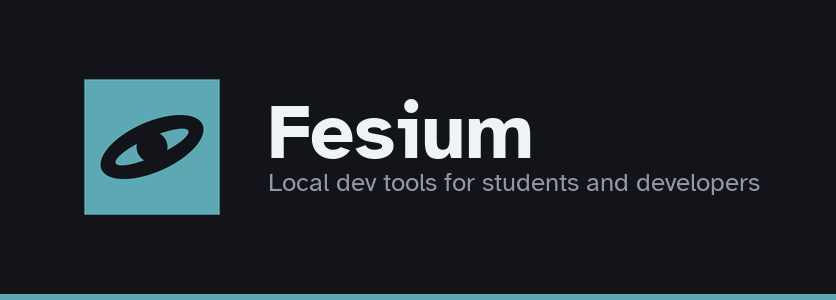
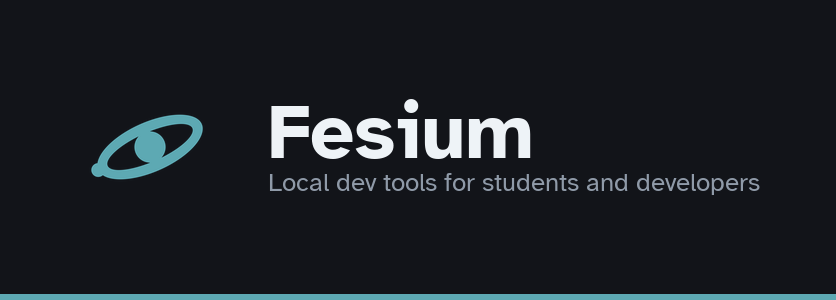
brand: redraw the mark as monochrome line art; light social preview
The mark is now three shapes in one ink - orbit, nucleus, and an electron riding the ring - instead of a filled tile with dark shapes inside. The accent carries it on dark grounds (7.8:1); a deepened shade of the same hue carries it on light ones (4.6:1), where the raw accent measured 2.7:1. The social preview inverts to a near-white ground: the old one baked the app's dark background in and measured 29/255 mean luminance, so GitHub's card rendered it as a black rectangle. Same geometry everywhere, emitted by build_brand.py as before.

Changed region(s): [[0.0933, 0.24, 0.2799, 0.72]]

diff --git a/site/index.html b/site/index.html
@@ -15,7 +15,7 @@
 <meta property="og:url" content="https://goaud.github.io/Fesium/">
 <meta property="og:type" content="website">
 <meta name="twitter:card" content="summary_large_image">
[2 lines of base64/hex data omitted]
 <link rel="preconnect" href="https://fonts.googleapis.com">
 <link rel="preconnect" href="https://fonts.gstatic.com" crossorigin>
 <link rel="stylesheet" href="https://fonts.googleapis.com/css2?family=Atkinson+Hyperlegible:wght@400;700&amp;family=JetBrains+Mono:wght@400;700&amp;display=swap">
@@ -184,7 +184,7 @@ footer nav{margin-left:auto; display:flex; gap:22px; flex-wrap:wrap}
 
 <header class="top">
   <div class="wrap">
[2 lines of base64/hex data omitted]
     <span class="name">Fesium</span>
     <nav>
       <a class="section" href="#what">What it does</a>

diff --git a/scripts/build_brand.py b/scripts/build_brand.py
@@ -12,20 +12,27 @@ social preview set its wordmark in Arial while the app ships its own face, and
 the two disagreed about the mark's proportions. One definition below now feeds the SVG,
 the banner, the social preview and the icons, so they cannot disagree again.
 
-Two decisions are worth stating, because both were measured rather than
-guessed:
+Decisions worth stating, because each was measured rather than guessed:
 
-**The mark carries its own ground.** The previous mark was transparent with
-every stroke at ``stroke-opacity="0.28"``. In a README that means it sits on
-whatever ground the reader's GitHub theme supplies - 2.12:1 against the dark
-canvas and 1.10:1 against the light one, where the WCAG floor for a graphical
-object is 3:1. The tile is opaque, and the banner and social preview bake a
-dark ground in, so both render identically in either GitHub theme.
+**The mark is line art, and its colour follows its ground.** An orbit, a
+nucleus and one electron riding the ring - three shapes, one colour, no
+fill block. Monochrome line work reads as engineering rather than decoration,
+and a single colour survives every size from favicon to banner. The colour is
+the accent on dark grounds (7.8:1 against ``#121419``) and a deepened shade of
+the same hue on light ones (4.6:1 against white), because the raw accent
+measures 2.7:1 there - under the 3:1 floor for a graphical object. Same
+geometry everywhere; only the ink changes with the paper.
 
-**The small sizes get their own artwork.** A ring inside the tile plus a
-crossing orbit reads at 120px and turns to mush at 32. The shipped mark keeps
-one orbit and a nucleus, and the 16px icon entry redraws them heavier rather
-than downscaling artwork built for 512.
+**The social preview carries a light ground.** The previous preview baked the
+app's dark background in and measured a mean luminance of 29/255 - on
+GitHub's card it read as a black rectangle, which is what it mostly was. This
+one inverts: near-white ground, deep-teal mark, dark wordmark. It reads
+instantly in both GitHub themes, where a dark card disappears into the dark
+one and blends into the light one.
+
+**The small sizes get their own artwork.** The full mark reads at 120px and
+turns to mush at 32. The shipped icon keeps the tile, and the 16px entry
+redraws every shape heavier rather than downscaling artwork built for 512.
 """
 
 import struct
@@ -46,20 +53,44 @@ ACCENT = (93, 169, 179)        # accent.primary  #5DA9B3
 GROUND = (18, 20, 25)          # bg.app          #121419
 INK = (238, 243, 247)          # text.primary    #eef3f7
 MUTED = (143, 154, 168)        # text.secondary  #8f9aa8
-BORDER = (43, 52, 64)          # border.default  #2b3440
+
+# The accent deepened just enough to clear 3:1 against white (it measures
+# 4.6:1). Same hue as ACCENT, so the two read as one brand on either ground.
+ACCENT_DEEP = (61, 126, 136)   # #3d7e88
+# MUTED deepened for text on the light ground, for the same reason.
+MUTED_DEEP = (90, 102, 115)    # #5a6673
 
 BOX = 512                      # the mark's design canvas
 SUPERSAMPLE = 8                # Pillow has no anti-aliased stroking of its own
 
 # The mark, in design units. Tuned at 32px, not at 512.
 TILE_INSET = 28
-ORBIT_RX, ORBIT_RY = 186, 84
+ORBIT_RX, ORBIT_RY = 196, 86
 ORBIT_TILT = 24                # counter-clockwise, matching the SVG's rotate(-24)
-ORBIT_STROKE = 52
-NUCLEUS_R = 52
+ORBIT_STROKE = 36
+NUCLEUS_R = 54
+ELECTRON_R = 24
 # The 16px entry, redrawn heavier so the shapes survive at that size.
-SMALL_ORBIT_STROKE = 76
+SMALL_ORBIT_STROKE = 58
 SMALL_NUCLEUS_R = 74
+SMALL_ELECTRON_R = 36
+
+
+def _electron_center() -> tuple[float, float]:
+    """Where the electron sits: on the ring, at its rotated left extreme.
+
+    The unrotated ellipse's leftmost point is ``(cx - RX, cy)``; the orbit
+    layer is then rotated counter-clockwise by ORBIT_TILT about the centre,
+    and the electron has to land on the stroke, not near it.
+    """
+    import math
+
+    c = BOX / 2
+    dx, dy = -ORBIT_RX, 0.0
+    theta = math.radians(ORBIT_TILT)
+    # Counter-clockwise in screen coordinates (y grows downward).
+    return c + dx * math.cos(theta) + dy * math.sin(theta), \
+        c - dx * math.sin(theta) + dy * math.cos(theta)
 
 
 def _blank(scale: int) -> Image.Image:
@@ -73,49 +104,80 @@ def _orbit_layer(scale: int, stroke: int) -> Image.Image:
     ImageDraw.Draw(layer).ellipse(
         [(c - ORBIT_RX) * scale, (c - ORBIT_RY) * scale,
          (c + ORBIT_RX) * scale, (c + ORBIT_RY) * scale],
-        outline=GROUND + (255,), width=int(stroke * scale))
+        outline=(0, 0, 0, 255), width=int(stroke * scale))
     return layer.rotate(ORBIT_TILT, resample=Image.BICUBIC,
                         center=(c * scale, c * scale))
 
 
-def draw_mark(size: int, *, small: bool = False) -> Image.Image:
-    """The mark at ``size`` px, drawn large and downscaled for the edges."""
+def draw_line_mark(size: int, color: tuple[int, int, int], *,
+                   small: bool = False) -> Image.Image:
+    """The mark as monochrome line art on transparency, at ``size`` px.
+
+    Orbit, nucleus and electron all take ``color`` - one ink, three shapes.
+    Drawn large and downscaled so the edges stay clean.
+    """
     scale = SUPERSAMPLE
     stroke = SMALL_ORBIT_STROKE if small else ORBIT_STROKE
     nucleus = SMALL_NUCLEUS_R if small else NUCLEUS_R
+    electron = SMALL_ELECTRON_R if small else ELECTRON_R
 
     img = _blank(scale)
+    # The orbit layer is drawn in opaque black and recoloured, because the
+    # rotation resamples alpha and would fade a coloured stroke's edges.
+    orbit = _orbit_layer(scale, stroke)
+    solid = Image.new("RGBA", orbit.size, color + (255,))
+    img.paste(solid, (0, 0), orbit)
+
     draw = ImageDraw.Draw(img)
-    draw.rectangle(
-        [TILE_INSET * scale, TILE_INSET * scale,
-         (BOX - TILE_INSET) * scale, (BOX - TILE_INSET) * scale],
-        fill=ACCENT + (255,))
-    img.alpha_composite(_orbit_layer(scale, stroke))
     c = BOX / 2
-    ImageDraw.Draw(img).ellipse(
+    draw.ellipse(
         [(c - nucleus) * scale, (c - nucleus) * scale,
-         (c + nucleus) * scale, (c + nucleus) * scale], fill=GROUND + (255,))
+         (c + nucleus) * scale, (c + nucleus) * scale], fill=color + (255,))
+    ex, ey = _electron_center()
+    draw.ellipse(
+        [(ex - electron) * scale, (ey - electron) * scale,
+         (ex + electron) * scale, (ey + electron) * scale], fill=color + (255,))
     return img.resize((size, size), Image.LANCZOS)
 
 
-def write_mark_svg(path: Path) -> None:
-    """The same geometry as SVG, for anywhere a vector is wanted.
+def draw_mark(size: int, *, small: bool = False) -> Image.Image:
+    """The tile mark for the app icon: accent square, ground-coloured line art.
 
-    The viewBox stays 0 0 512 512: tests/unit/test_brand_asset_layout.py
-    asserts it, and every size below is derived from that canvas.
+    The tile exists because an icon floats among other icons on surfaces this
+    project does not control - a taskbar, a desktop - and carries its own
+    ground the way the banner does.
+    """
+    scale = SUPERSAMPLE
+    img = _blank(scale)
+    ImageDraw.Draw(img).rectangle(
+        [TILE_INSET * scale, TILE_INSET * scale,
+         (BOX - TILE_INSET) * scale, (BOX - TILE_INSET) * scale],
+        fill=ACCENT + (255,))
+    line = draw_line_mark(BOX, GROUND, small=small)
+    img.alpha_composite(line.resize((BOX * scale, BOX * scale), Image.LANCZOS))
+    return img.resize((size, size), Image.LANCZOS)
+
+
+def write_mark_svg(path: Path, color: tuple[int, int, int]) -> None:
+    """The line mark as SVG, for anywhere a vector is wanted.
+
+    Transparent by design: the caller picks the variant whose ink suits its
+    ground (ACCENT on dark, ACCENT_DEEP on light). The viewBox stays
+    0 0 512 512: tests/unit/test_brand_asset_layout.py asserts it, and every
+    size below is derived from that canvas.
     """
     hexof = "#%02x%02x%02x"
+    ex, ey = _electron_center()
     path.write_text(
         '<svg xmlns="http://www.w3.org/2000/svg" viewBox="0 0 512 512" '
         'role="img" aria-label="Fesium">\n'
-        f'  <rect x="{TILE_INSET}" y="{TILE_INSET}" '
-        f'width="{BOX - 2 * TILE_INSET}" height="{BOX - 2 * TILE_INSET}" '
-        f'fill="{hexof % ACCENT}" />\n'
         f'  <ellipse cx="256" cy="256" rx="{ORBIT_RX}" ry="{ORBIT_RY}" '
-        f'fill="none" stroke="{hexof % GROUND}" stroke-width="{ORBIT_STROKE}" '
+        f'fill="none" stroke="{hexof % color}" stroke-width="{ORBIT_STROKE}" '
         f'transform="rotate(-{ORBIT_TILT} 256 256)" />\n'
         f'  <circle cx="256" cy="256" r="{NUCLEUS_R}" '
-        f'fill="{hexof % GROUND}" />\n'
+        f'fill="{hexof % color}" />\n'
+        f'  <circle cx="{ex:.0f}" cy="{ey:.0f}" r="{ELECTRON_R}" '
+        f'fill="{hexof % color}" />\n'
         "</svg>\n",
         encoding="utf-8")
 
@@ -159,13 +221,13 @@ def build_banner(path: Path, height: int = 300) -> None:
 
     It bakes the dark ground rather than shipping a transparent logo, so the
     header reads the same for a visitor on GitHub's light theme as on its dark
-    one. That is the whole reason this file exists as a PNG rather than the
-    transparent SVG the README used to inline.
+    one. The mark sits as line art in the accent - quieter than a filled tile
+    and consistent with the SVG the repo ships beside it.
 
     The canvas is sized to the lockup rather than fixed, because a fixed width
     left the composition stranded against a third of a canvas of dead space.
     """
-    margin, gap, mark_size, line_gap = 76, 40, 152, 14
+    margin, gap, mark_size, line_gap = 76, 44, 148, 14
     wordmark = load_font(BOLD, 78)
     tagline = load_font(REGULAR, 26)
     words, tag = "Fesium", "Local dev tools for students and developers"
@@ -182,7 +244,7 @@ def build_banner(path: Path, height: int = 300) -> None:
     # the image down to the width of a README column.
     draw.rectangle([0, height - 6, width, height], fill=ACCENT)
 
-    mark = draw_mark(mark_size)
+    mark = draw_line_mark(mark_size, ACCENT)
     img.paste(mark, (margin, (height - 6 - mark_size) // 2), mark)
 
     text_x = margin + mark_size + gap
@@ -196,12 +258,14 @@ def build_banner(path: Path, height: int = 300) -> None:
 def build_social_preview(path: Path, width: int = 1280, height: int = 640) -> None:
     """GitHub's social preview, at the size GitHub asks for.
 
-    The previous version tiled a 160px faceted pattern across the canvas, which
-    resolved into visible horizontal banding, and set the wordmark in Arial.
-    This one keeps the ground plain and the wordmark in the app's own face.
+    The ground is light on purpose. The previous preview baked the app's dark
+    background in and measured a mean luminance of 29/255, so GitHub's card
+    rendered it as a black rectangle - the complaint that prompted this
+    rework. Near-white ground, deep-teal mark, dark wordmark: it reads in both
+    GitHub themes, where a dark card vanishes into the dark one.
     """
-    mark_size, mark_gap, line_gap = 216, 58, 20
-    wordmark = load_font(BOLD, 92)
+    mark_size, mark_gap, line_gap = 224, 56, 20
+    wordmark = load_font(BOLD, 96)
     tagline = load_font(REGULAR, 30)
     words, tag = "Fesium", "Local dev tools for students and developers"
 
@@ -212,24 +276,26 @@ def build_social_preview(path: Path, width: int = 1280, height: int = 640) -> No
     # measured to the exact middle.
     top = (height - stack) // 2 - 16
 
-    img = Image.new("RGB", (width, height), GROUND)
+    img = Image.new("RGB", (width, height), INK)
     draw = ImageDraw.Draw(img)
+    # One accent rule along the bottom, tying the card to the banner.
+    draw.rectangle([0, height - 10, width, height], fill=ACCENT)
 
-    # A soft accent wash behind the mark, drawn as concentric rings rather than
-    # a bitmap gradient so it stays banding-free at this size.
+    # A faint deep-teal wash behind the mark, drawn as concentric rings rather
+    # than a bitmap gradient so it stays banding-free at this size.
     cx, cy = width // 2, top + mark_size // 2
-    for radius in range(320, 0, -2):
-        weight = (1 - radius / 320) * 0.13
-        blend = tuple(round(GROUND[i] + (ACCENT[i] - GROUND[i]) * weight)
+    for radius in range(300, 0, -2):
+        weight = (1 - radius / 300) * 0.07
+        blend = tuple(round(INK[i] + (ACCENT_DEEP[i] - INK[i]) * weight)
                       for i in range(3))
         draw.ellipse([cx - radius, cy - radius, cx + radius, cy + radius], fill=blend)
 
-    mark = draw_mark(mark_size)
+    mark = draw_line_mark(mark_size, ACCENT_DEEP)
     img.paste(mark, (cx - mark_size // 2, top), mark)
 
     text_y = top + mark_size + mark_gap
-    draw_ink(draw, cx, text_y, words, wordmark, INK, centre=True)
-    draw_ink(draw, cx, text_y + word_h + line_gap, tag, tagline, MUTED, centre=True)
+    draw_ink(draw, cx, text_y, words, wordmark, GROUND, centre=True)
+    draw_ink(draw, cx, text_y + word_h + line_gap, tag, tagline, MUTED_DEEP, centre=True)
 
     img.save(path, optimize=True)
 
@@ -265,7 +331,9 @@ def main() -> int:
     BRAND_DIR.mkdir(parents=True, exist_ok=True)
     ICON_DIR.mkdir(parents=True, exist_ok=True)
 
-    write_mark_svg(BRAND_DIR / "fesium-orbit.svg")
+    # The vector ships in the dark-ground ink; on a light surface use
+    # ACCENT_DEEP, which the script emits nowhere by default but accepts here.
+    write_mark_svg(BRAND_DIR / "fesium-orbit.svg", ACCENT)
     build_banner(BRAND_DIR / "fesium-banner.png")
     build_social_preview(BRAND_DIR / "fesium-social-preview.png")
 
